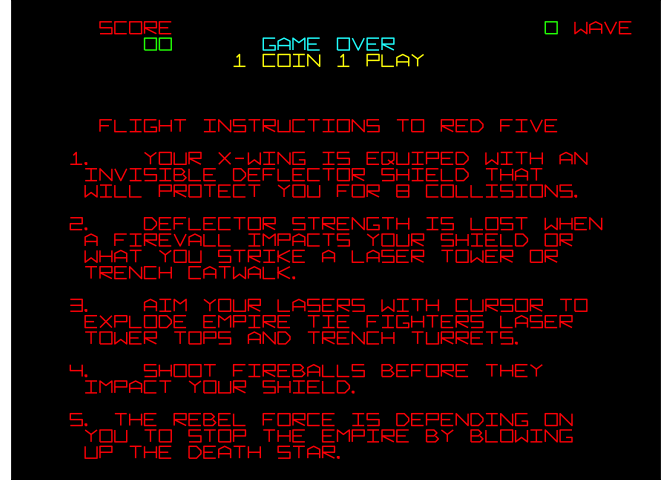
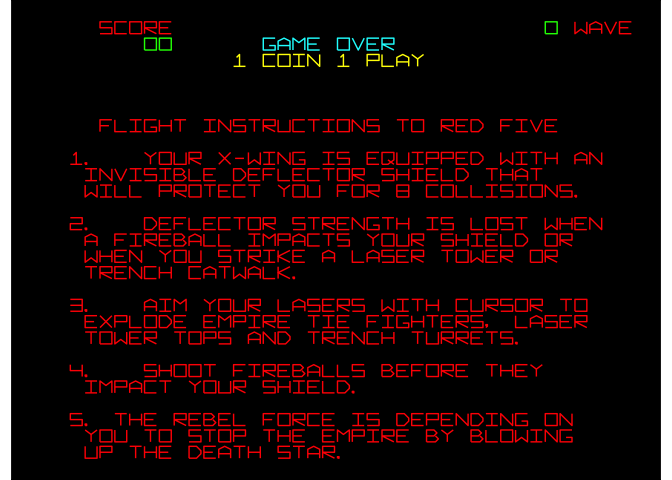
fix typos

diff --git a/README.md b/README.md
@@ -147,17 +147,17 @@ text <- "
 
     flight instructions to red five
 
-  1.   your x-wing is equiped with an
+  1.   your x-wing is equipped with an
    invisible deflector shield that
    will protect you for 8 collisions.
 
   2.   deflector strength is lost when
-   a firevall impacts your shield or
-   what you strike a laser tower or
+   a fireball impacts your shield or
+   when you strike a laser tower or
    trench catwalk.
 
   3.   aim your lasers with cursor to
-   explode empire tie fighters laser
+   explode empire tie fighters, laser
    tower tops and trench turrets.
 
   4.   shoot fireballs before they
